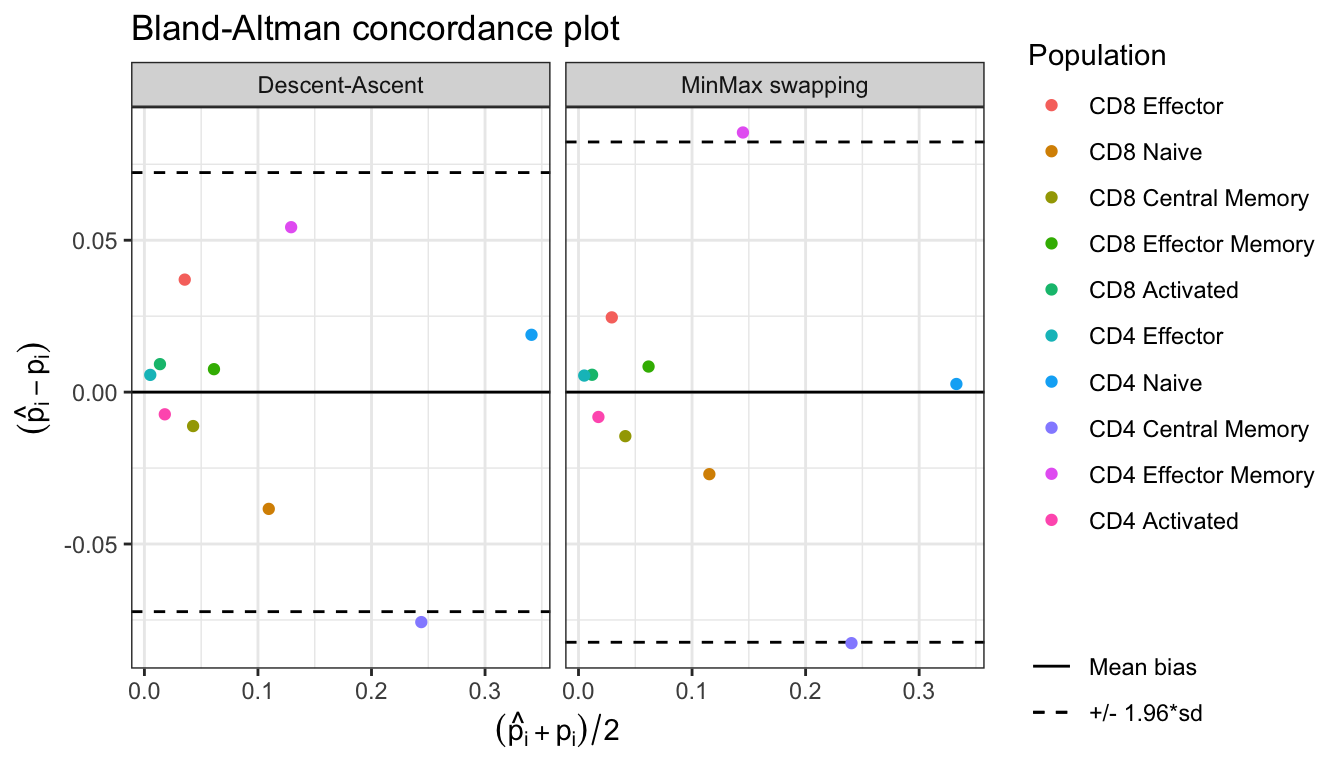
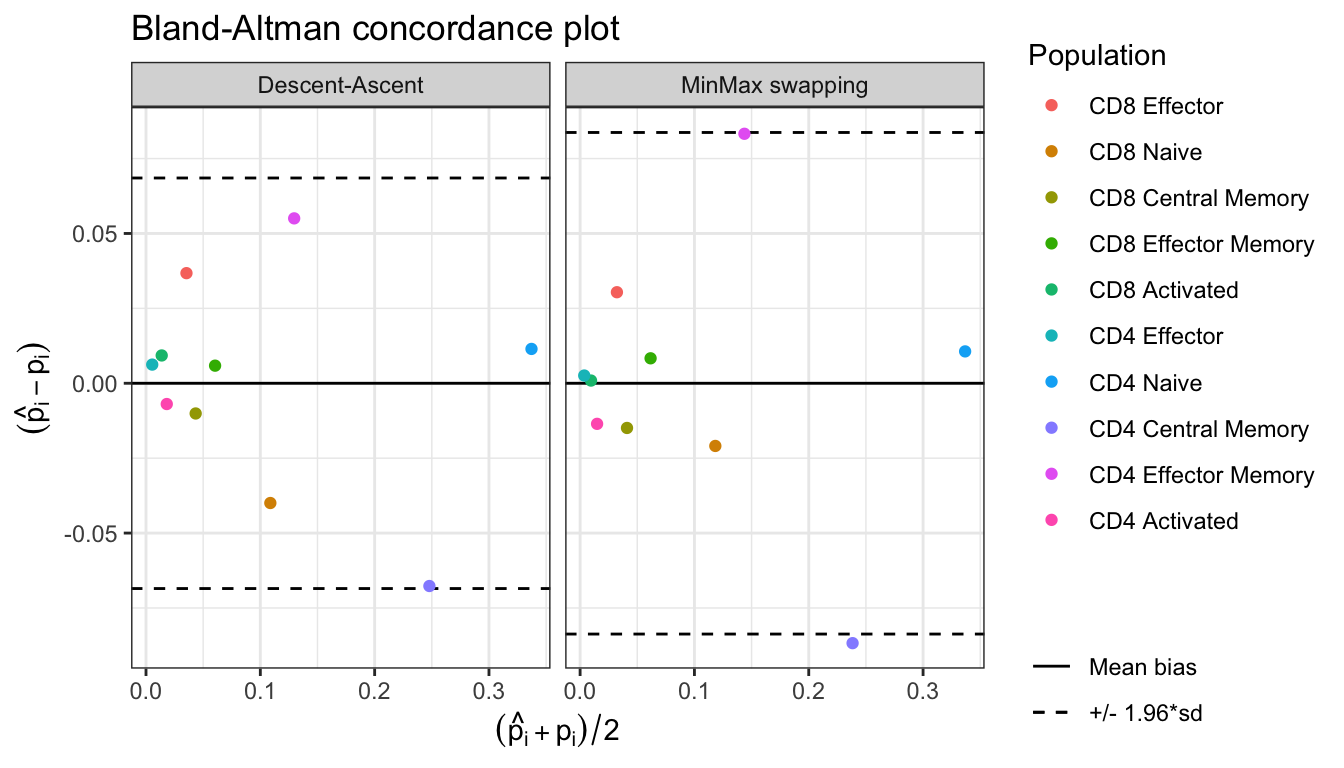
cran comments and links update => version bump

diff --git a/README.md b/README.md
@@ -33,7 +33,9 @@ The methods implemented in this package are detailed in the following
 article:
 
 > Paul Freulon, Jérémie Bigot, Boris P. Hejblum. CytOpT: Optimal
-> Transport with Domain Adaptation for Interpreting Flow Cytometry data
+> Transport with Domain Adaptation for Interpreting Flow Cytometry data.
+> *Annals of Applied Statistics*, *17*(2), 1086-1104.
+> <doi:10.1214/22-AOAS1660> <https://doi.org/10.1214/22-AOAS1660>
 > <https://arxiv.org/abs/2006.09003>
 
 ## Installation
@@ -85,29 +87,29 @@ res <- CytOpT(X_s = HIPC_Stanford_1228_1A, X_t = HIPC_Stanford_1369_1A,
 #> Converting `X_s` from data.frame to matrix type
 #> Converting `X_t` from data.frame to matrix type
 #> Running Descent-ascent optimization...
-#> Done in 34.8 secs
+#> Done in 41 secs
 #> Running MinMax optimization...
-#> Done in 9 secs
+#> Done in 13.1 secs
 ```
 
 ``` r
 summary(res)
 #> Estimation of cell proportions with Descent-Ascent and MinMax swapping from CytOpt:
 #>                     Gold_standard Descent_ascent      MinMax
-#> CD8 Effector          0.017004001    0.054036845 0.041607931
-#> CD8 Naive             0.128736173    0.090298071 0.101728390
-#> CD8 Central Memory    0.048481996    0.037308518 0.033985173
-#> CD8 Effector Memory   0.057484114    0.065037680 0.065902469
-#> CD8 Activated         0.009090374    0.018299906 0.014798738
-#> CD4 Effector          0.002324076    0.007991691 0.007774069
-#> CD4 Naive             0.331460344    0.350327762 0.334132167
-#> CD4 Central Memory    0.281713344    0.206010781 0.199079907
-#> CD4 Effector Memory   0.102082843    0.156372210 0.187550009
-#> CD4 Activated         0.021622735    0.014316537 0.013441148
+#> CD8 Effector          0.017004001    0.053759778 0.047393221
+#> CD8 Naive             0.128736173    0.088769005 0.107816158
+#> CD8 Central Memory    0.048481996    0.038397834 0.033566658
+#> CD8 Effector Memory   0.057484114    0.063361303 0.065816317
+#> CD8 Activated         0.009090374    0.018372778 0.009994826
+#> CD4 Effector          0.002324076    0.008558555 0.004906936
+#> CD4 Naive             0.331460344    0.342921952 0.342097994
+#> CD4 Central Memory    0.281713344    0.214043702 0.194972841
+#> CD4 Effector Memory   0.102082843    0.157122353 0.185355840
+#> CD4 Activated         0.021622735    0.014692740 0.008079209
 #> 
 #> Final Kullback-Leibler divergences:
 #>  Descent-Ascent MinMax swapping 
-#>      0.06708789      0.06806565 
+#>      0.06512061      0.07230307 
 #> Number of iterations:
 #>  Descent-Ascent MinMax swapping 
 #>            5000           10000

diff --git a/cran-comments.md b/cran-comments.md
@@ -1,12 +1,12 @@
-Dear CRAN maintainers, I am aware this update comes very shortly after the initial release of CytOpT on CRAN and I apologize.
-However, a quick fix to the code is needed as the main function of the package was not working as intended: indeed, it failed to adequatly monitor the optimization progress, and the subsequent plot() method was also not behaving properly, throwing an error in certain configurations.
-Again, Apologies for submitting an update so quickly, I am fully aware of the CRAN policy on submission frequency, and future updates to CytOpT will not be submitted until a few months pass.
-Thank you.
+Dear CRAN maintainers, 
+This update fixes the error generated in the vignettes due to a data.frame being 
+passed to Python instead of a matrix. All problems from https://cran.r-project.org/web/checks/check_results_CytOpT.html
+have been fixed. CITATION and links have been updated.
  
 ## R CMD check results
 
- * local R installation, R 4.1.2
- * Linux (Ubuntu 20.04), macOS (11.6) and Windows (Server 2019 10.0), R devel and release (through GitHub Actions)
+ * local R installation, R 4.4.3
+ * Linux (Ubuntu 24.04), macOS (14.7) and Windows (Server 2022 10.0), R devel and release (through GitHub Actions)
  * win-builder
 
 0 errors | 0 warnings | 0 notes

diff --git a/NEWS.md b/NEWS.md
@@ -1,4 +1,4 @@
-# CytOpT 0.9.5 
+# CytOpT 0.9.6 
 *Minor release*
 
 * typos and forced type conversion
